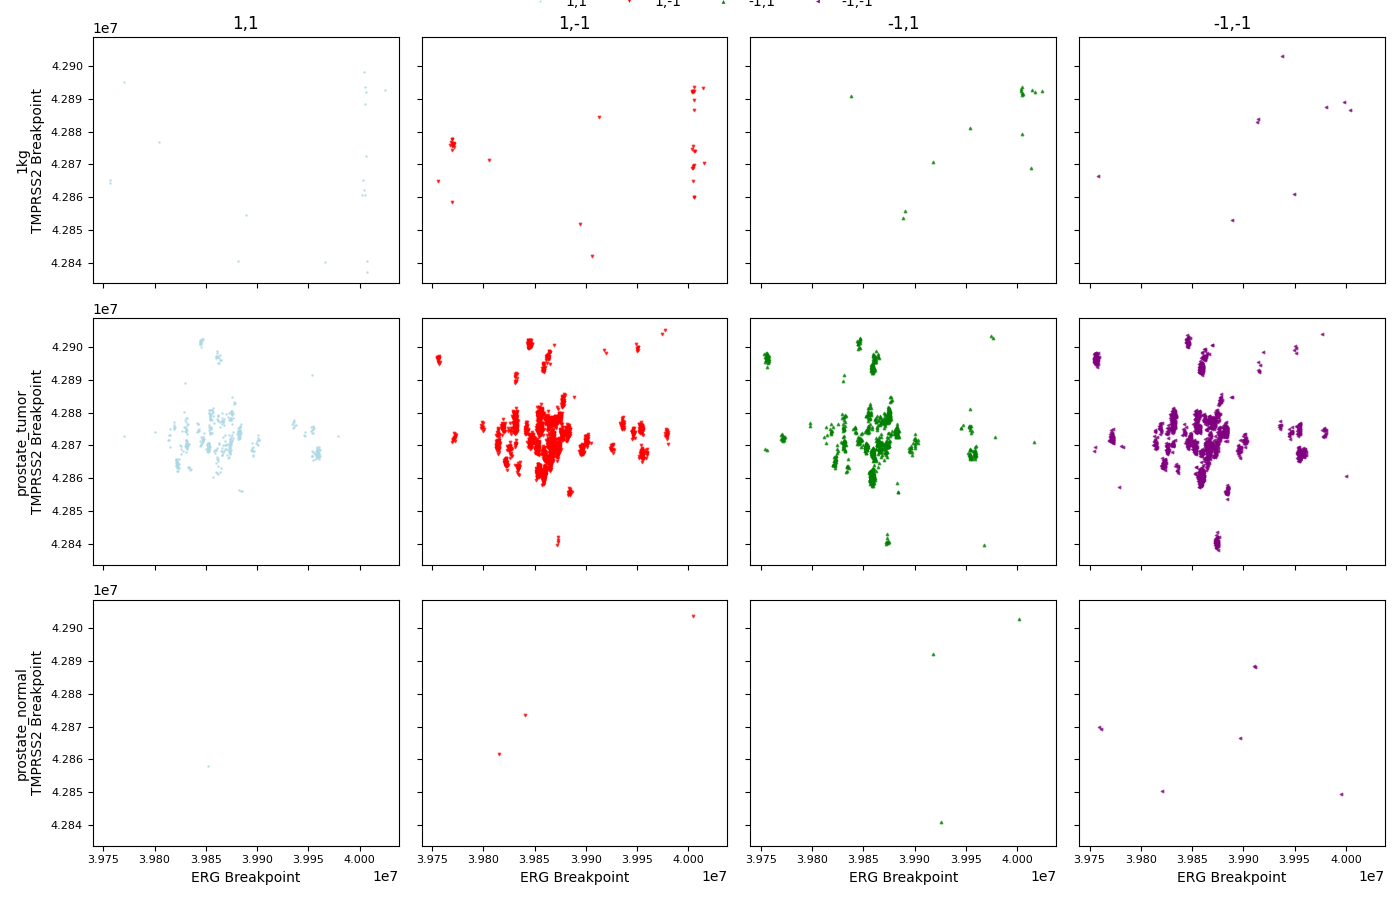
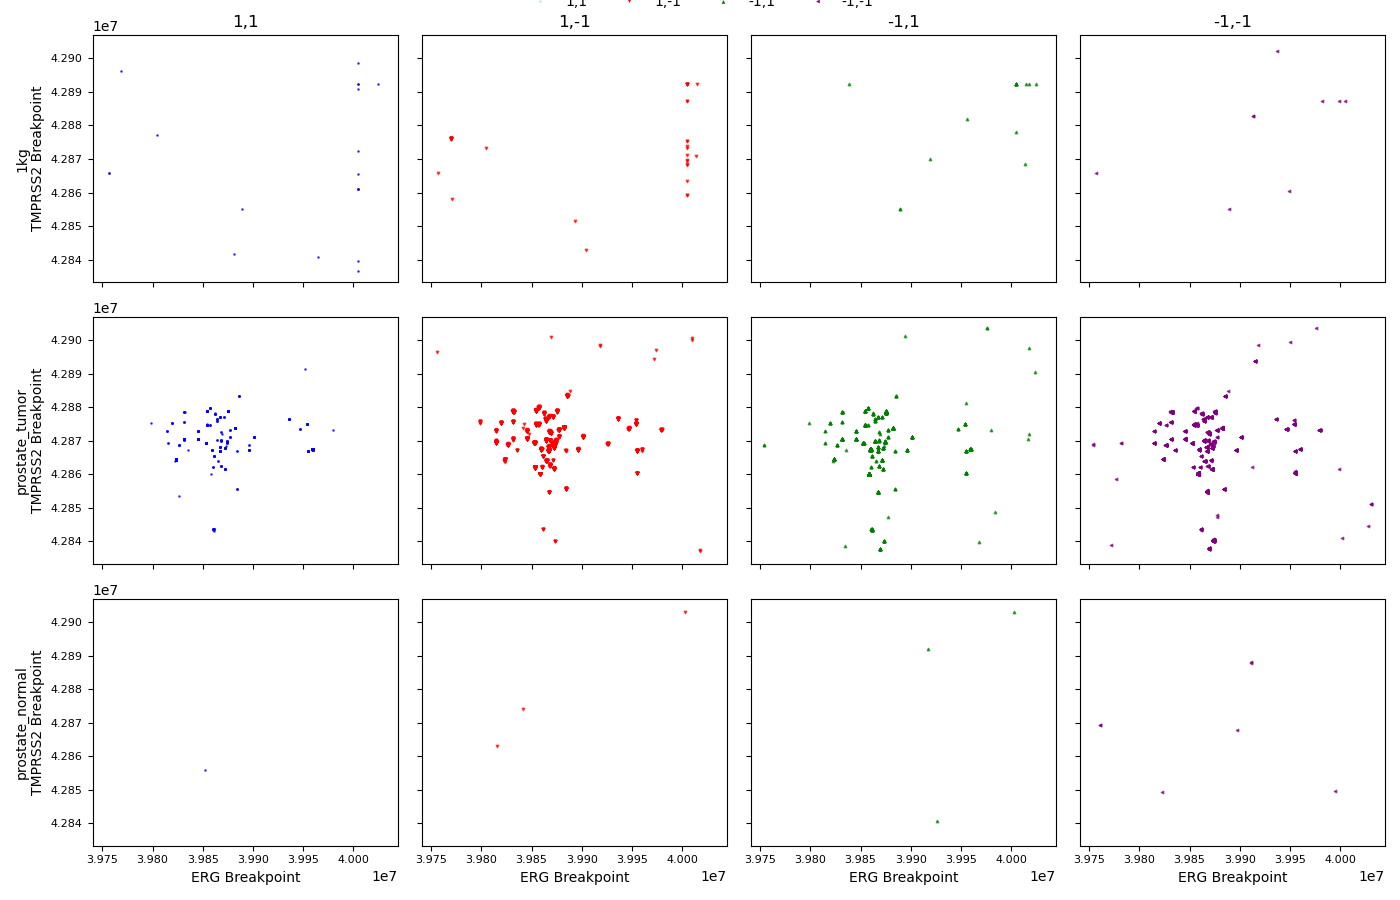
et2 strand and breakpoint exp

diff --git a/results/2026_05-erg_tmprss2-strands/scatter_breakpoint_strands_labeled.py b/results/2026_05-erg_tmprss2-strands/scatter_breakpoint_strands_labeled.py
@@ -10,15 +10,15 @@ import numpy as np
 SEED=0
 np.random.seed(SEED)
 
-def get_sample_breakpoints(df):
-    sample_ranges = (
-        df.groupby('sample').agg(
-            left_bp=('left_start', 'min'),
-            right_bp=('right_start', 'max')
-        )
-    )
-    sample_ranges.reset_index(inplace=True)
-    return sample_ranges
+# def get_sample_breakpoints(df):
+#     sample_ranges = (
+#         df.groupby('sample').agg(
+#             left_bp=('left_start', 'min'),
+#             right_bp=('right_start', 'max')
+#         )
+#     )
+#     sample_ranges.reset_index(inplace=True)
+#     return sample_ranges
 
 filename_intersect='ERG.giggle.clean.swap.intersect.bed.gz'
 intervals_1kg_file = f'./g2f_out/high_coverage_1000g_dna/{filename_intersect}'
@@ -34,16 +34,16 @@ df_1kg.columns = columns
 df_1kg = df_1kg[df_1kg['right_gene'] == 'TMPRSS2']
 df_1kg['strand_config'] = df_1kg.apply(lambda row: f"{row['left_strand']},{row['right_strand']}", axis=1)
 df_1kg['cohort'] = '1kg'
-breakpoints_1kg = get_sample_breakpoints(df_1kg)
-df_1kg = pd.merge(df_1kg, breakpoints_1kg, on='sample', how='left')
+# breakpoints_1kg = get_sample_breakpoints(df_1kg)
+# df_1kg = pd.merge(df_1kg, breakpoints_1kg, on='sample', how='left')
 
 df_prostate_tumor = pd.read_csv(intervals_prostate_tumor_file, sep='\t', header=None, usecols=col_idxs, comment='#')
 df_prostate_tumor.columns = columns
 df_prostate_tumor = df_prostate_tumor[df_prostate_tumor['right_gene'] == 'TMPRSS2']
 df_prostate_tumor['strand_config'] = df_prostate_tumor.apply(lambda row: f"{row['left_strand']},{row['right_strand']}", axis=1)
 df_prostate_tumor['cohort'] = 'prostate_tumor'
-breakpoints_prostate_tumor = get_sample_breakpoints(df_prostate_tumor)
-df_prostate_tumor = pd.merge(df_prostate_tumor, breakpoints_prostate_tumor, on='sample', how='left')
+# breakpoints_prostate_tumor = get_sample_breakpoints(df_prostate_tumor)
+# df_prostate_tumor = pd.merge(df_prostate_tumor, breakpoints_prostate_tumor, on='sample', how='left')
 
 
 df_prostate_normal = pd.read_csv(intervals_prostate_normal_file, sep='\t', header=None, usecols=col_idxs, comment='#')
@@ -51,14 +51,14 @@ df_prostate_normal.columns = columns
 df_prostate_normal = df_prostate_normal[df_prostate_normal['right_gene'] == 'TMPRSS2']
 df_prostate_normal['strand_config'] = df_prostate_normal.apply(lambda row: f"{row['left_strand']},{row['right_strand']}", axis=1)
 df_prostate_normal['cohort'] = 'prostate_normal'
-breakpoints_prostate_normal = get_sample_breakpoints(df_prostate_normal)
-df_prostate_normal = pd.merge(df_prostate_normal, breakpoints_prostate_normal, on='sample', how='left')
+# breakpoints_prostate_normal = get_sample_breakpoints(df_prostate_normal)
+# df_prostate_normal = pd.merge(df_prostate_normal, breakpoints_prostate_normal, on='sample', how='left')
 
 df_concat = pd.concat([df_1kg, df_prostate_tumor, df_prostate_normal], ignore_index=True)
 
 # scatter plot of left and right breakpoints colored by strand config
 color_map = {
-    '1,1': 'lightblue',
+    '1,1': 'blue',
     '1,-1': 'red',
     '-1,1': 'green',
     '-1,-1': 'purple'
@@ -71,8 +71,8 @@ marker_map = {
 }
 df_concat['color'] = df_concat['strand_config'].map(color_map)
 # add jitter
-df_concat['left_bp'] = df_concat['left_bp'] + np.random.normal(0, 1000, size=len(df_concat))
-df_concat['right_bp'] = df_concat['right_bp'] + np.random.normal(0, 1000, size=len(df_concat))
+df_concat['left_start_jitter'] = df_concat['left_start'] #+ np.random.normal(0, 1000, size=len(df_concat))
+df_concat['right_end_jitter'] = df_concat['right_end'] #+ np.random.normal(0, 1000, size=len(df_concat))
 cohorts = ['1kg', 'prostate_tumor', 'prostate_normal']
 strand_configs = ['1,1', '1,-1', '-1,1', '-1,-1']
 fig, ax = plt.subplots(len(cohorts), len(strand_configs), figsize=(14, 9), sharex=True, sharey=True)
@@ -83,8 +83,8 @@ for row_index, cohort in enumerate(cohorts):
         strand_df = cohort_df[cohort_df['strand_config'] == strand_config]
         if not strand_df.empty:
             axis.scatter(
-                strand_df['left_bp'],
-                strand_df['right_bp'],
+                strand_df['left_start_jitter'],
+                strand_df['right_end_jitter'],
                 alpha=0.7,
                 c=color_map.get(strand_config, 'gray'),
                 s=3,
@@ -103,3 +103,11 @@ fig.legend(handles=[plt.Line2D([0], [0], marker='.', color='w', label='1,1', mar
 					plt.Line2D([0], [0], marker='^', color='w', label='-1,1', markerfacecolor='green', markersize=5),
 					plt.Line2D([0], [0], marker='<', color='w', label='-1,-1', markerfacecolor='purple', markersize=5)], loc='upper center', ncol=4, frameon=False, bbox_to_anchor=(0.5, 1.02))
 plt.savefig('breakpoint_scatter_strand_config.png')
+
+# test binning breakpoints and subtracting out normal signal
+bins=5
+x = df_prostate_tumor['left_start']
+y = df_prostate_tumor['right_end']
+counts, x_edges, y_edges = np.histogram2d(x, y, bins=bins,
+                                          range=[[x.min(), x.max()], [y.min(), y.max()]])
+

diff --git a/results/2026_05-erg_tmprss2-strands/count_strand_configs.py b/results/2026_05-erg_tmprss2-strands/count_strand_configs.py
@@ -34,7 +34,7 @@ df_prostate_normal['cohort'] = 'prostate_normal'
 df_concat = pd.concat([df_1kg, df_prostate_tumor, df_prostate_normal], ignore_index=True)
 # barplot strand configs by cohort
 color_map = {
-    '1,1': 'lightblue',
+    '1,1': 'blue',
     '1,-1': 'red',
     '-1,1': 'green',
     '-1,-1': 'purple'